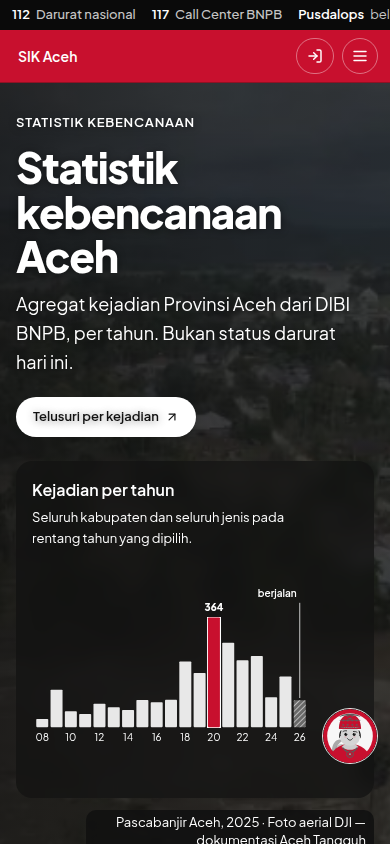
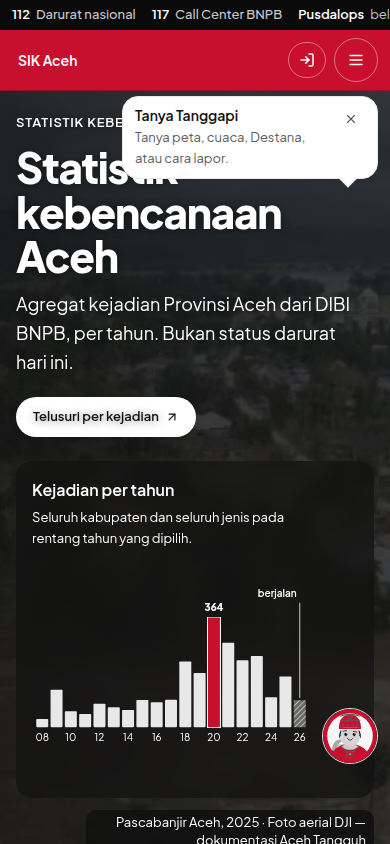
FE-70: reshoot popup, menu, and greeting evidence after the room-gate fixes.

Changed region(s): [[0.0, 0.0308, 1.0, 0.2156]]

diff --git a/docs/pengembangan/jurnal/FE-70.md b/docs/pengembangan/jurnal/FE-70.md
@@ -14,20 +14,21 @@ Status: diverifikasi
 
 ## Bacaan ulang niat
 
-Sapaan yang harus kelihatan adalah kalimat darurat di awal briefing peringatan, bukan dasar panel. Sumber tetap blok terakhir. Kontrak `/api/irbi` tidak diubah; urutan desc dibuat di `RisikoLadder`. Path teaser berasal dari `public/fixtures/boundaries-aceh-kab.geojson`, bukan gambar tangan. Gelembung Tanggapi sudah `hidden` di bawah `sm`, jadi di 390 tidak menutup tick 26.
+Sapaan yang harus kelihatan adalah kalimat darurat di awal briefing peringatan, bukan dasar panel. Sumber tetap blok terakhir. Kontrak `/api/irbi` tidak diubah; urutan desc dibuat di `RisikoLadder`. Path teaser berasal dari `public/fixtures/boundaries-aceh-kab.geojson`, diulang lewat `scripts/build-peta-teaser-paths.mjs`. Gelembung Tanggapi di 390 tampil di bawah header, di atas foto, dan tidak menutup panel grafik tick 26.
 
 ## Perubahan
 
 | Berkas | Isi |
 | --- | --- |
 | `GuidePanel.tsx` | `scrollIntoView({ block: "start" })` pada pesan terbaru. Kicker `--text-dim`. |
-| `GuideBot.tsx` | `setOpen(false)` sebelum `router.push("/peta")`. |
-| `MapFeatureCard.tsx` | Judul + × lengket. `stopPropagation` pada roda dan sentuh. Tautan hostname + ↗. Teks polos `--text-dim`. `fitCardToViewport` menahan kartu di dalam layar, plafon tetap `100dvh - 6rem - 32px`. |
-| `globals.css` | `max-height` kartu, kontrol peta di atas popup, garis teaser, pita `#dibi` lebih pendek di bawah 640px. |
-| `MapWorkspace.tsx` / `MapViewport.tsx` | Sembunyikan legenda Status dan FAB di bawah `md` saat popup terbuka. |
-| `SiteNav.tsx` | Laci `fixed inset-0`. Garis bawah `--band-rule`. |
+| `GuideBot.tsx` | `setOpen(false)` sebelum `router.push("/peta")`. Gelembung undangan tampil di 390 di atas foto, tidak menimpa panel grafik. |
+| `MapFeatureCard.tsx` | Tanggal dan × di baris sendiri. Judul selebar kartu. Gulir di badan kartu, bukan kulitnya, supaya lubang kanvas `#d4dce4` tidak muncul. `fitCardToViewport` menyisakan tinggi atribusi + 8px di layar sempit. |
+| `globals.css` | Kulit kartu `overflow: hidden`. Di bawah 768px, `.map-stage` naik ke z-index 40 saat popup terbuka. Atribusi tetap. |
+| `MapWorkspace.tsx` / `MapViewport.tsx` | Sembunyikan legenda dan tombol pengaturan di bawah `md` saat popup terbuka. Tutup popup mengembalikan fokus ke `.maplibregl-canvas`. |
+| `SiteNav.tsx` | Laci layar penuh dengan bilah "SIK Aceh" dan tombol × 44px (`Tutup menu`). Escape, tombol kembali, dan perangkap fokus. Fokus kembali ke tombol ☰. |
 | `HeroPhotoBackdrop.tsx` | Caption `lg:whitespace-nowrap`. |
-| `DataHero.tsx` / `MetricSpark.tsx` | Padding dan spark lebih pendek di 390. |
+| `DataHero.tsx` / `MetricSpark.tsx` | Pita lebih pendek di 390. Label tahun pada spark dihapus; titik puncak tetap. |
+| `scripts/build-peta-teaser-paths.mjs` | Mengulang path teaser dari fixture batas kabupaten. |
 | `RisikoLadder.tsx` | `urutKabupatenIrbi`: `irb_2025` desc, nama `localeCompare("id")`. |
 | `MapSettings.tsx` | `aria-label={t("settings")}` → "Pengaturan" di `/id`. |
 | `peta-teaser-paths.ts` | 23 path dari `public/fixtures/boundaries-aceh-kab.geojson` (Web Mercator, Douglas–Peucker). |
@@ -42,11 +43,13 @@ npm run build → exit 0
 Terang, 1440 dan 390. Angka dari DOM.
 
 Sapaan: lead "…bukan saluran darurat. Untuk darurat hubungi 112 atau Pusdalops." terlihat, scrollTop 12. Penafian 112 di bawah input.
-Kicker PANDUAN SITUS: rgb(92, 92, 92) pada panel putih. Kontras di atas 4.5:1. Gelembung 390 tidak ada; tick 26 right 306, FAB left 322, tidak tumpang tindih.
+Kicker PANDUAN SITUS: rgb(92, 92, 92) pada panel putih. Kontras di atas 4.5:1.
+Gelembung 390 terbuka (display block, y 96–179). Panel grafik y 461–798. Tidak tumpang tindih. Tick 26 di y 731.
 
-Popup ACEH-2023-0372 "Kebakaran — Aceh Besar":
-1440×900: judul top 533, × top 543, Sumber 794–876, viewport 900, scrollTop 605. Zoom dan atribusi bisa diklik.
-390×844: judul top 471, × top 481, Sumber 738–820, viewport 844. Legenda Status display none. Zoom dan atribusi bisa diklik.
+Popup ACEH-2023-0372. Judul lebar 310px pada kartu 336px.
+1440 atas: scrollTop 0. 1440 Sumber: scrollTop 547, Sumber y 790–871, header y 533–652. Atribusi bisa diklik.
+390: legenda none, pembungkus pengaturan display none saat popup, flex lagi setelah tutup. Kartu berakhir y 724, atribusi kompak y 742–766 dan bisa diklik. Sumber tergulir y 630–711. Fokus setelah tutup: maplibregl-canvas. Tahap peta z-index 40.
+Laci 390: "SIK Aceh" dan tombol "Tutup menu" 44×44, laci tinggi 844.
 Tautan: www.kanalaceh.com, bpba.acehprov.go.id. Teks polos: Data Kejadian BPBA.
 
 Pita #dibi di 390: tinggi 553px. Garis header: 1px rgb(142, 18, 36). RisikoLadder: Pidie Jaya, Aceh Selatan, Aceh Besar, Aceh Singkil, Aceh Utara, Simeulue, Aceh Barat Daya, Pidie. Teaser: 23 path, sumber public/fixtures/boundaries-aceh-kab.geojson. Caption 1440: white-space nowrap, satu baris.
